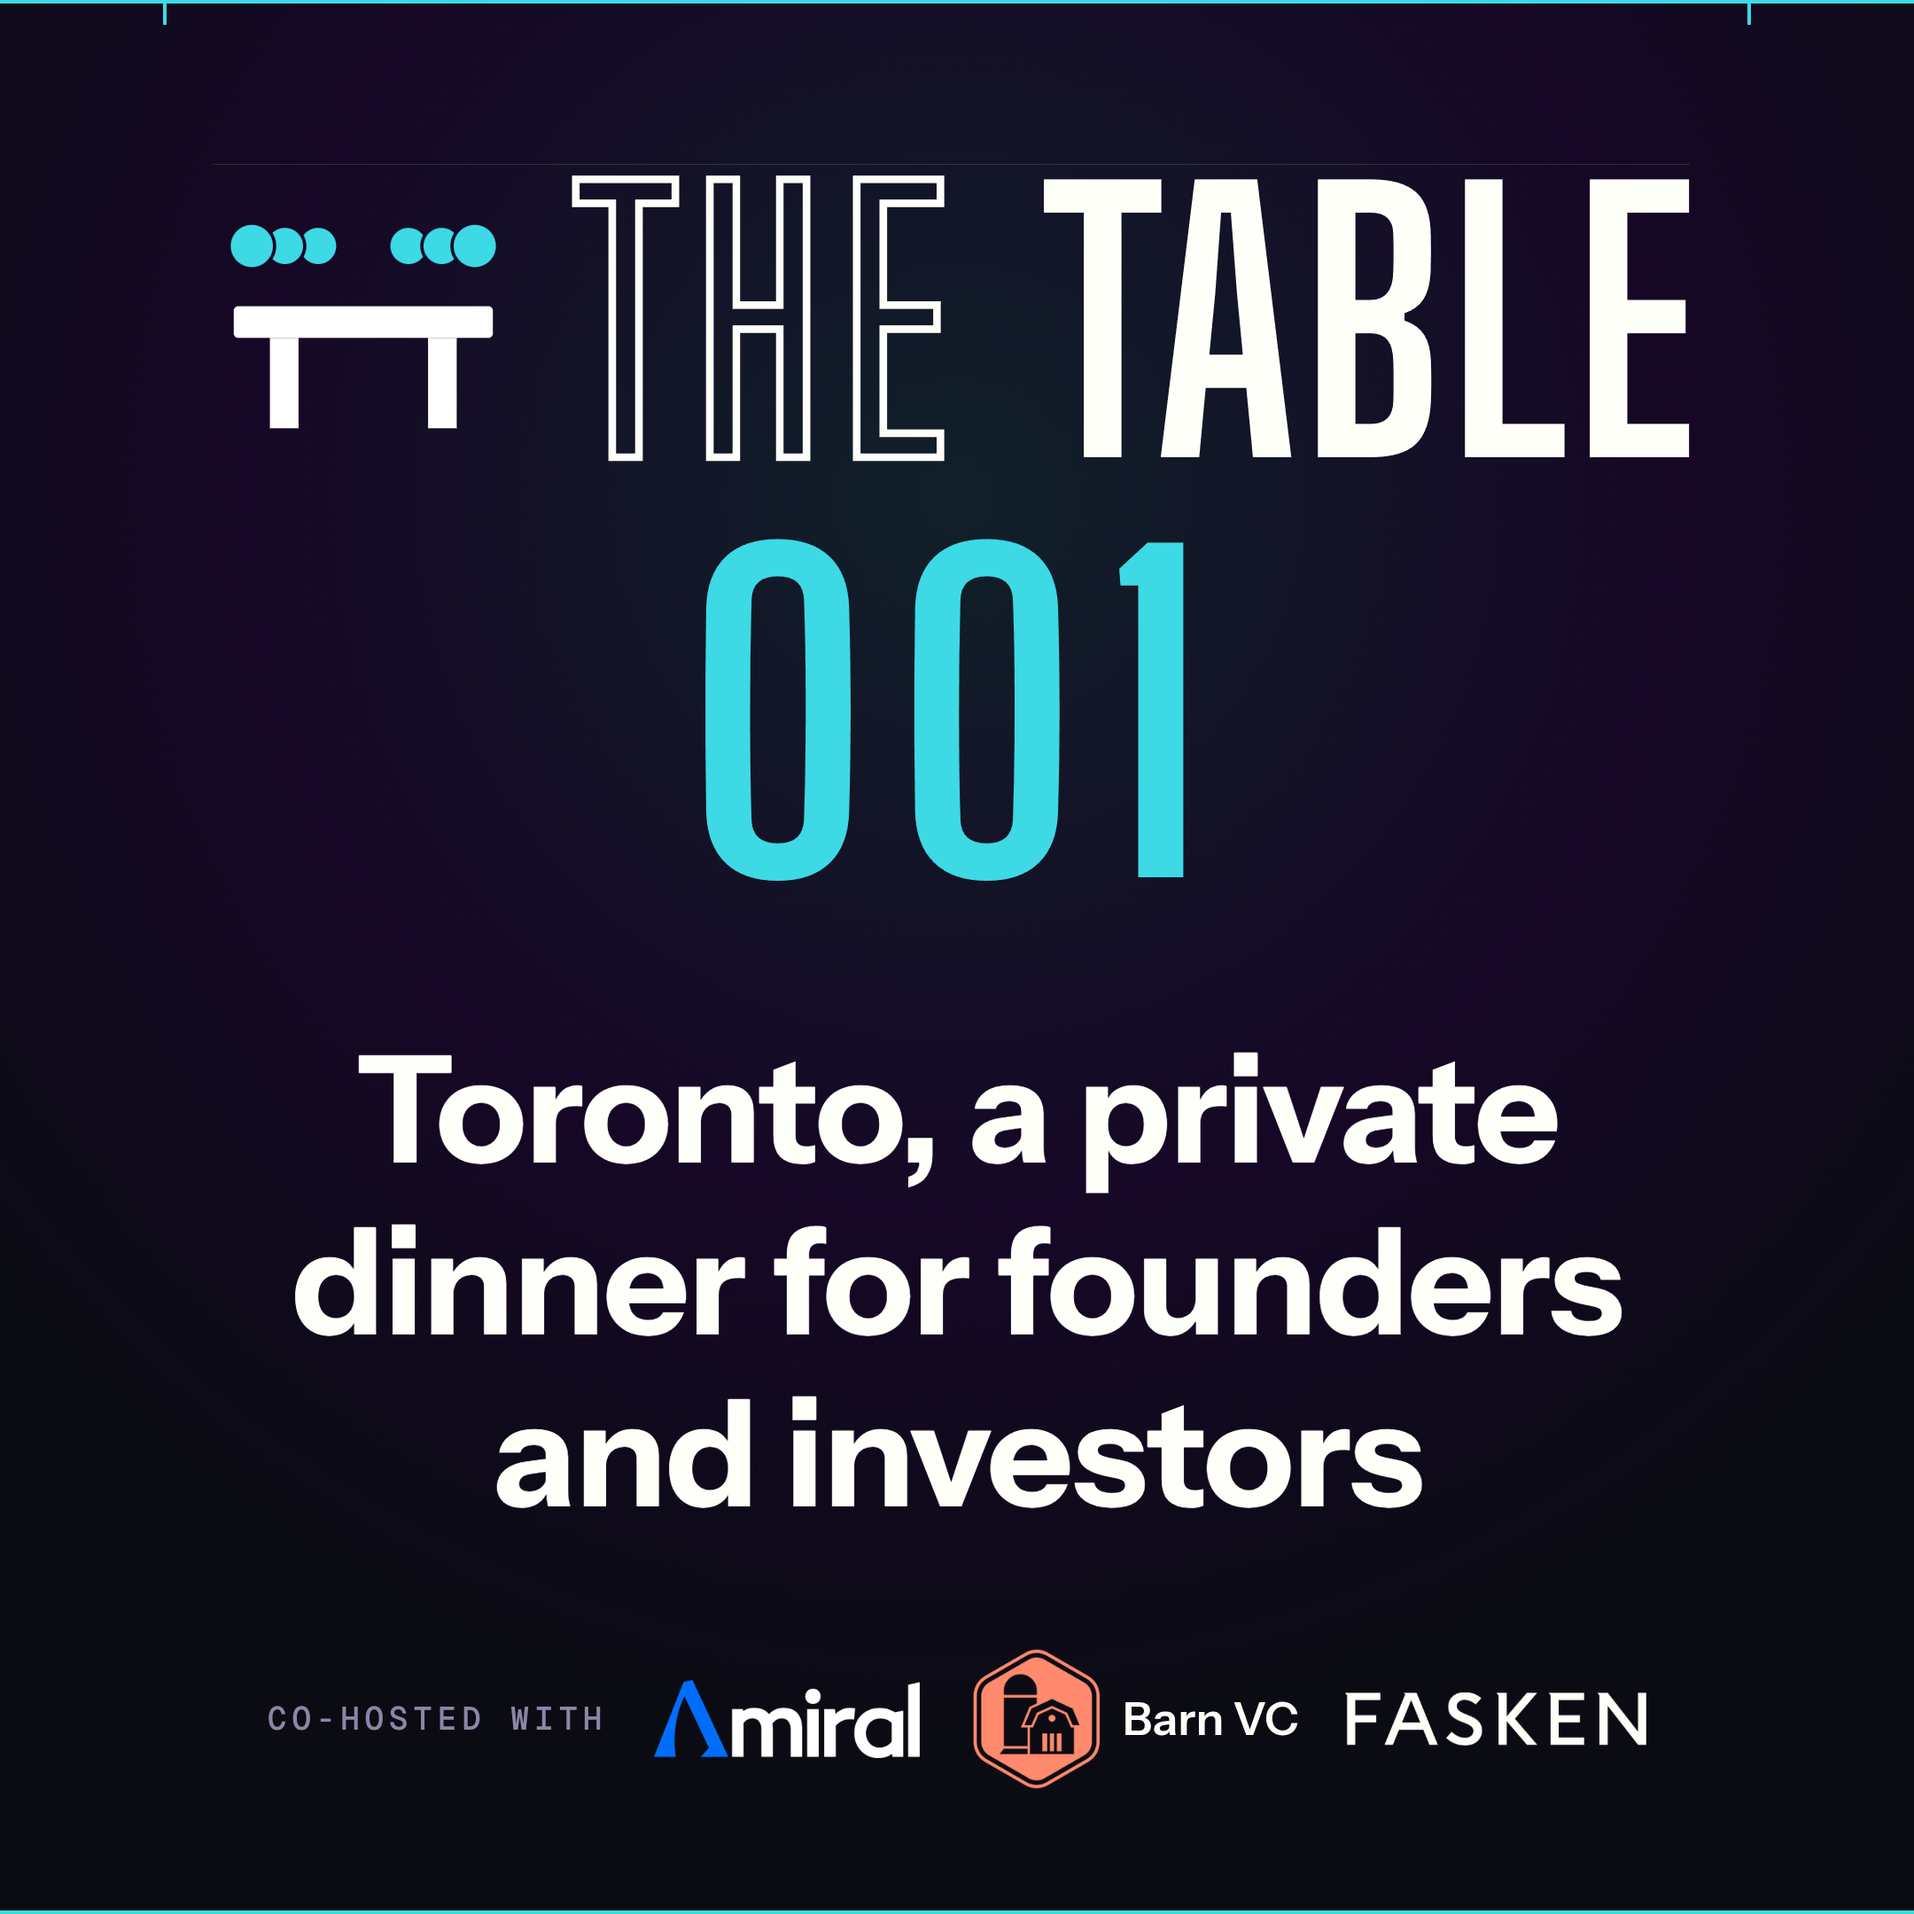
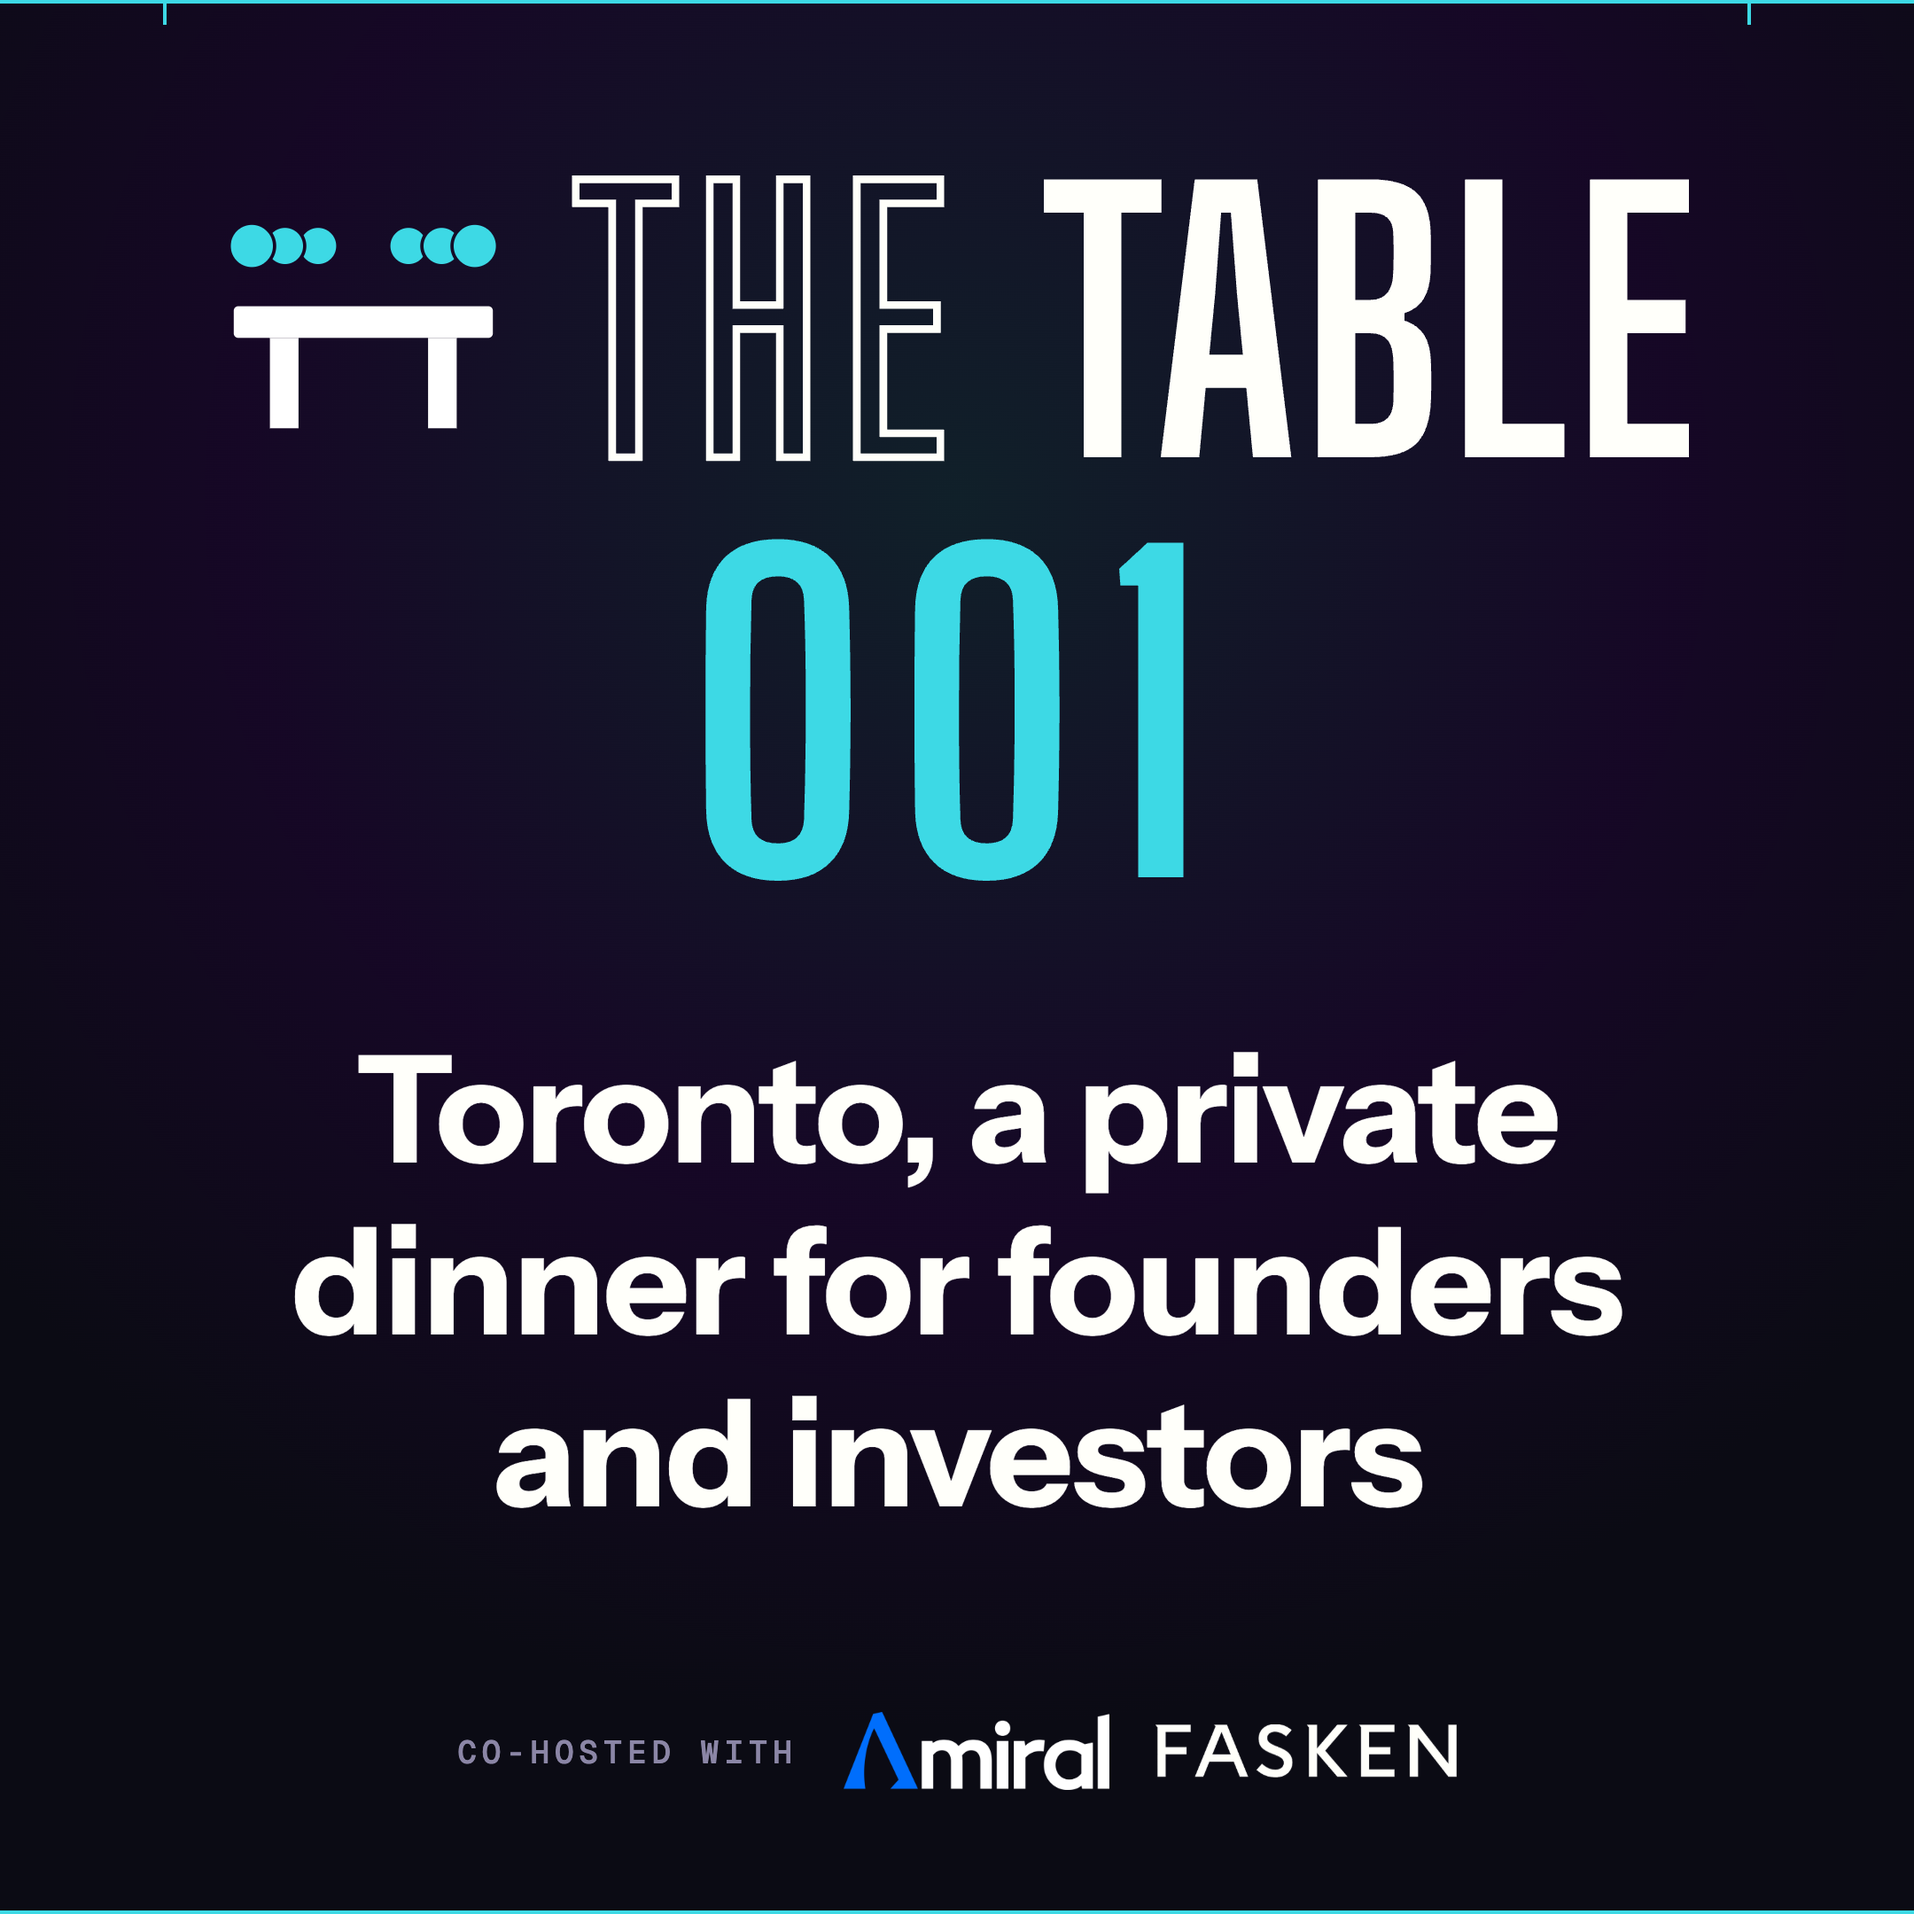
Table 001: new Luma cover (Amiral + Fasken)

Changed region(s): [[0.2171, 0.8685, 0.8685, 0.9306]]

diff --git a/events/toronto/index.html b/events/toronto/index.html
@@ -130,7 +130,7 @@
 
       <section class="events-section">
         <div class="table-card glass">
-          <div style="margin-bottom:24px;border-radius:14px;overflow:hidden;border:1px solid rgba(255,255,255,0.1);max-width:420px;"><img src="/images/table/table-001-cover.png?v=2" alt="The Table 001. Toronto, a private dinner for founders and investors. Co-hosted with Amiral, Barn VC, and Fasken." style="width:100%;height:auto;display:block;"></div>
+          <div style="margin-bottom:24px;border-radius:14px;overflow:hidden;border:1px solid rgba(255,255,255,0.1);max-width:420px;"><img src="/images/table/table-001-cover.png?v=3" alt="The Table 001. Toronto, a private dinner for founders and investors. Co-hosted with Amiral and Fasken." style="width:100%;height:auto;display:block;"></div>
           <div class="section-label">The Table</div>
           <h3>The Table 001 — Toronto Dinner</h3>
           <p>October 1, 2026 · Invite only</p>

diff --git a/table.html b/table.html
@@ -383,7 +383,7 @@
         <div class="container">
           <div class="event-grid">
             <article class="event-card glass reveal">
-              <img class="event-cover" src="/images/table/table-001-cover.png?v=2" alt="The Table 001. Toronto, a private dinner for founders and investors. Co-hosted with Amiral, Barn VC, and Fasken.">
+              <img class="event-cover" src="/images/table/table-001-cover.png?v=3" alt="The Table 001. Toronto, a private dinner for founders and investors. Co-hosted with Amiral and Fasken.">
               <p class="event-date">Thursday, October 1, 2026. 6pm.</p>
               <a class="button luma-link" href="#" aria-disabled="true" data-luma="toronto">Request a seat, Toronto</a>
             </article>
